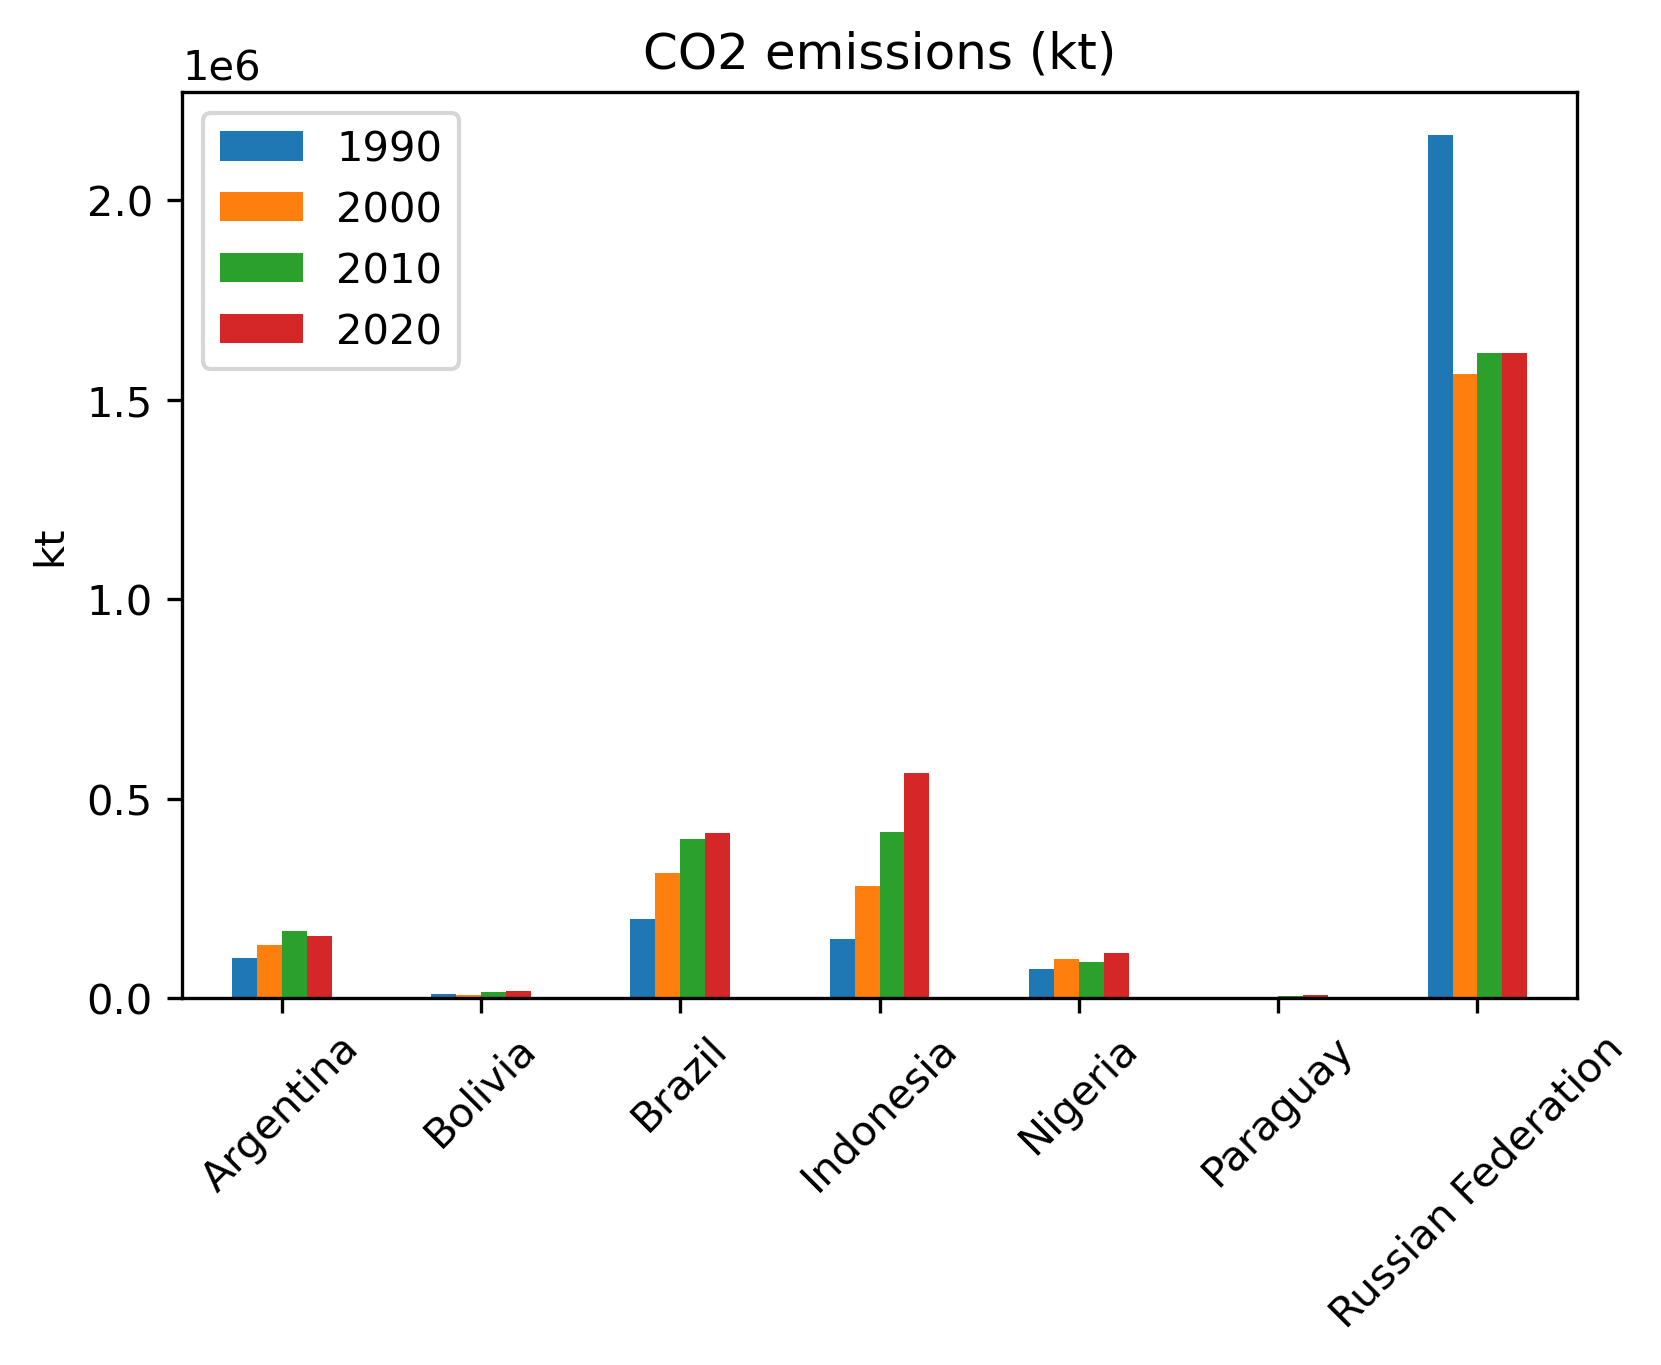
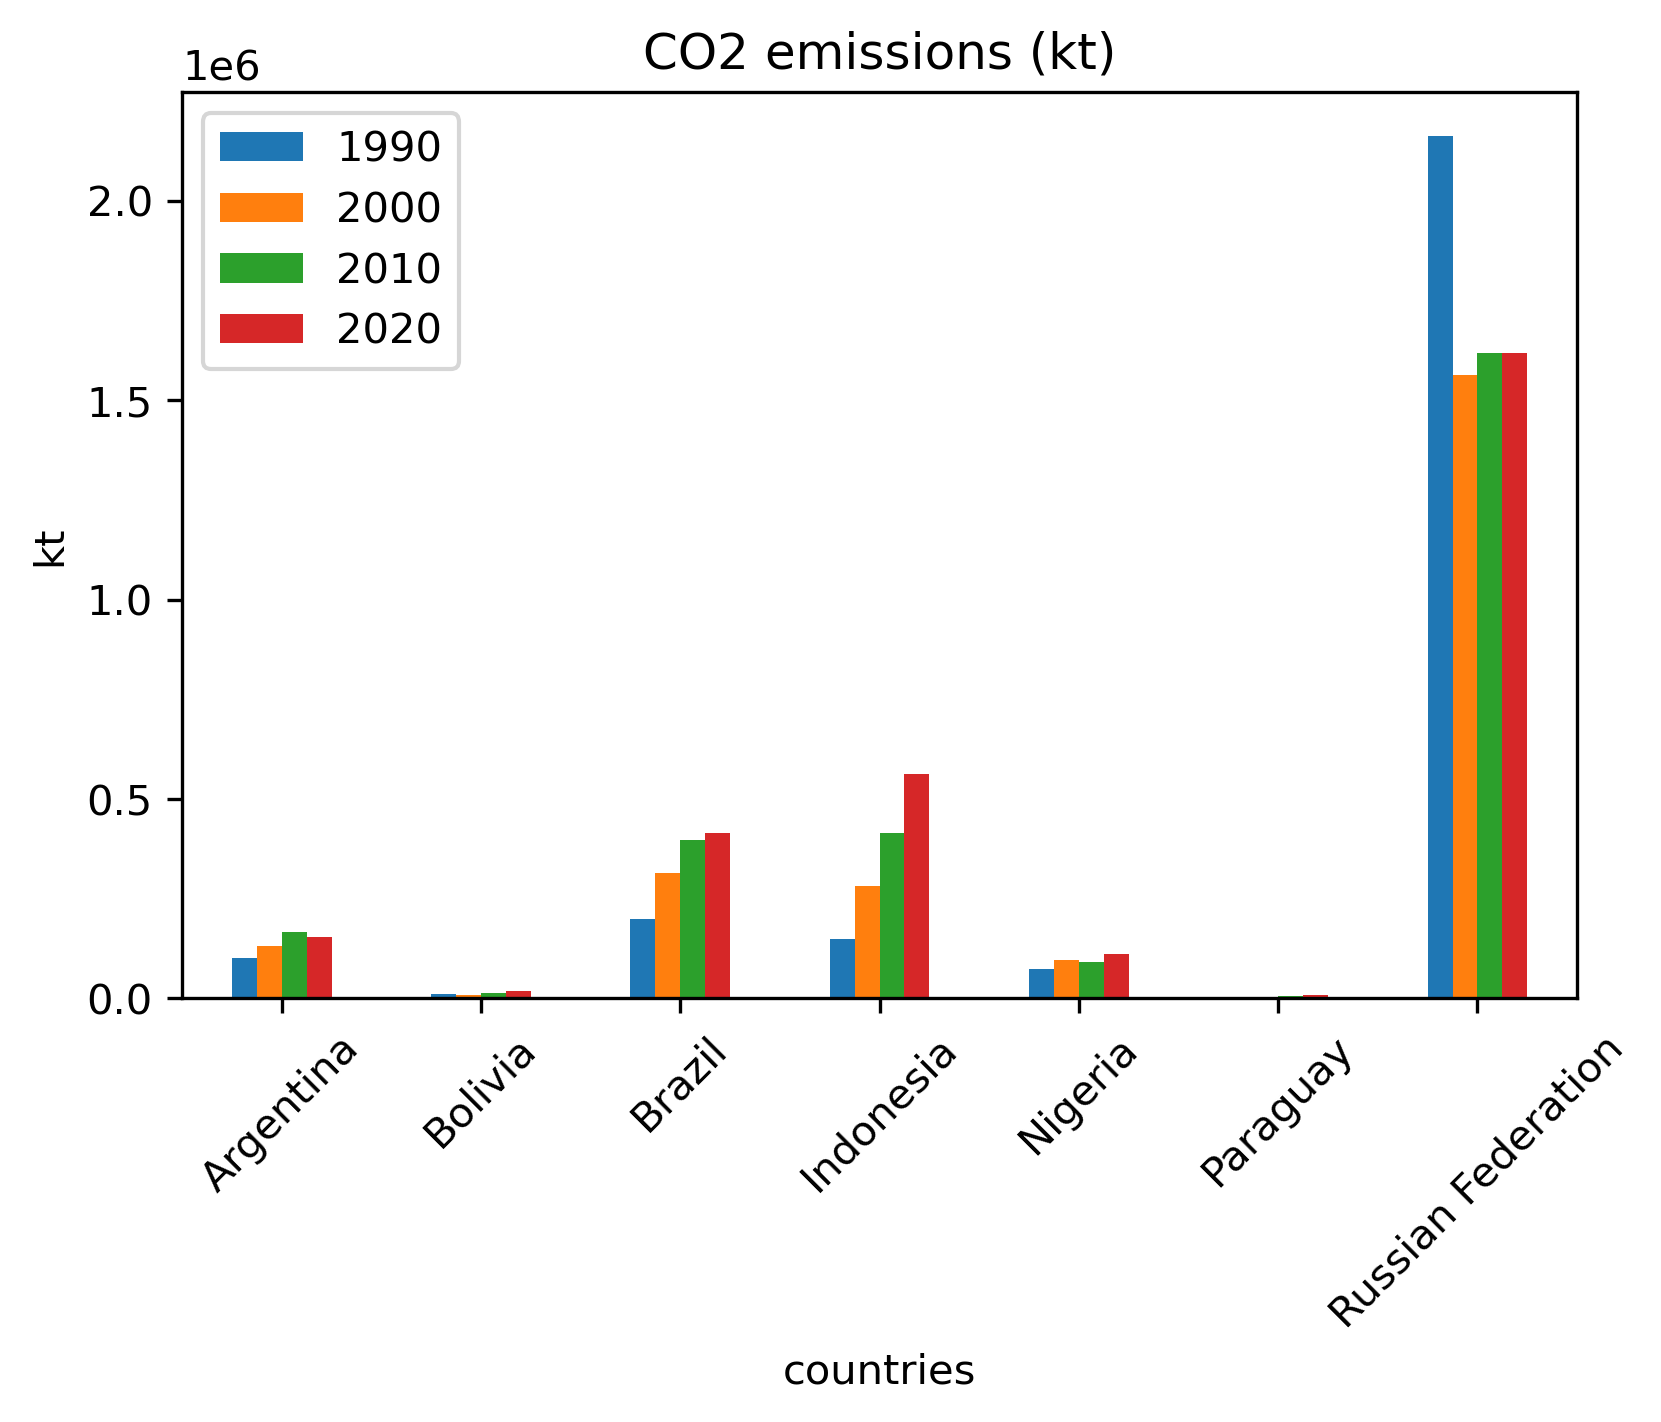
update y label

diff --git a/assigment2.py b/assigment2.py
@@ -318,8 +318,9 @@ print_statics_summary("GDP (current US$)", gdp_data_yw)
 
 # plot charts bar chart for Forest area and CO2emissions
 plot_and_save_bar_chart(frst_lnd_data_cw, "Forest area (% of land area)",
-                        "", "%", "forest.png")
-plot_and_save_bar_chart(co2_data_cw, "CO2 emissions (kt)", "", "kt", "co2.png")
+                        "countries", "% of land area", "forest.png")
+plot_and_save_bar_chart(co2_data_cw, "CO2 emissions (kt)",
+                        "countries", "kt", "co2.png")
 
 
 # plot line charts for Electric power consumption and Population
